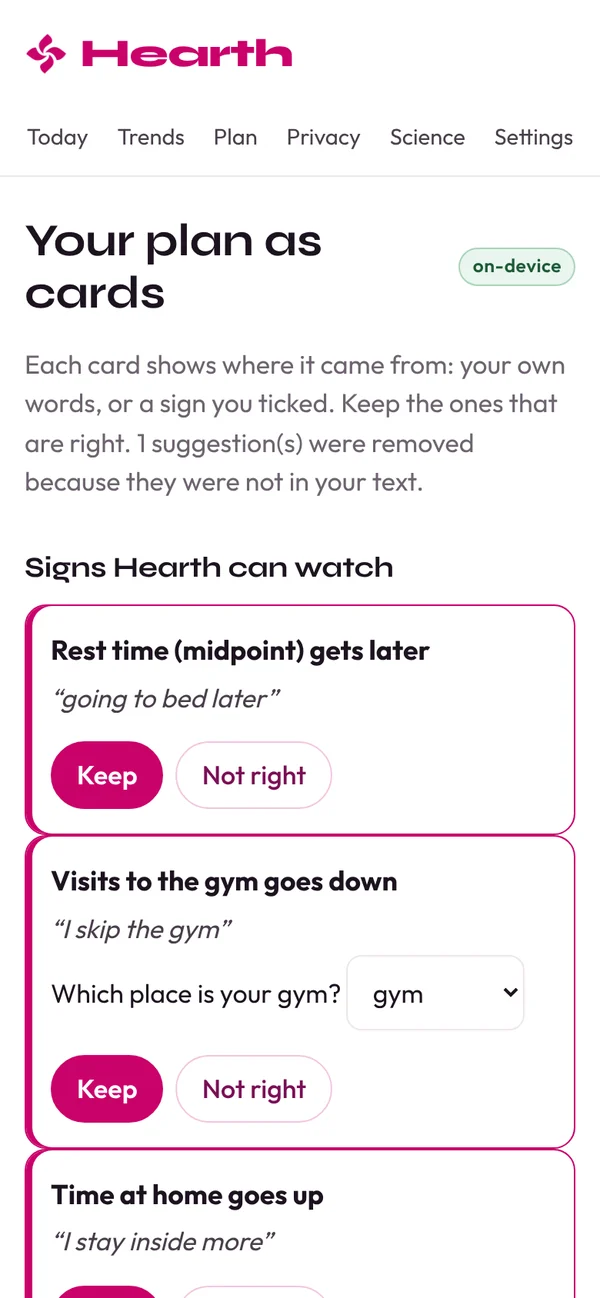
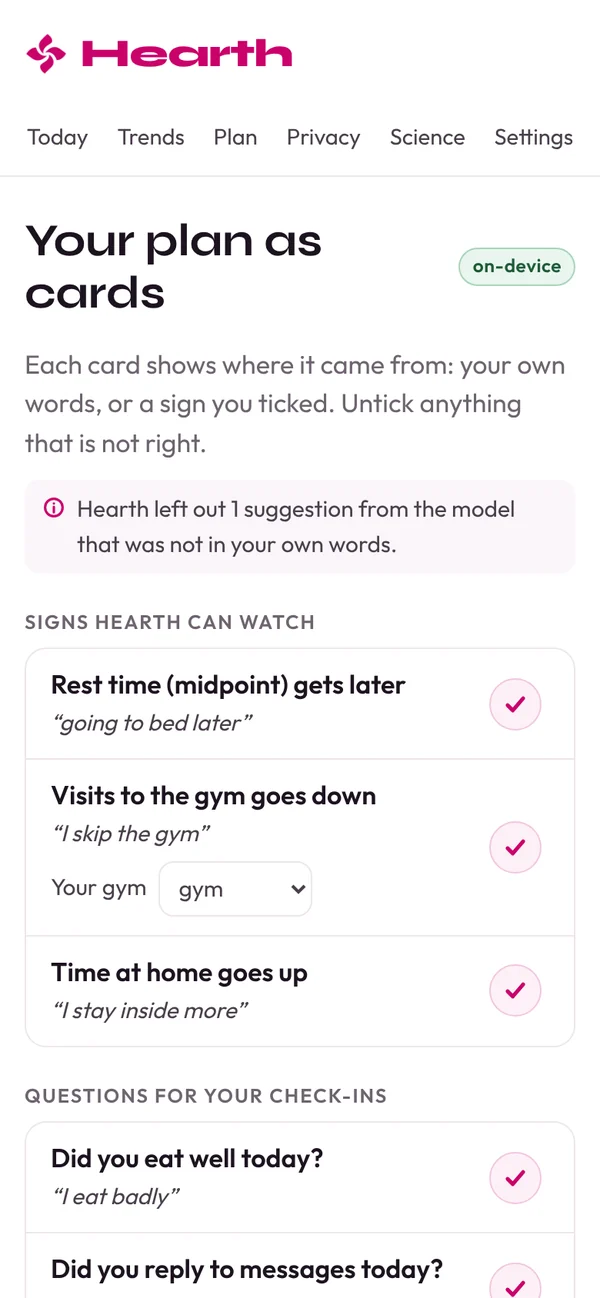
style(web): simplify plan cards

diff --git a/apps/web/src/screens/PlanSetup.tsx b/apps/web/src/screens/PlanSetup.tsx
@@ -1,10 +1,10 @@
-import { useEffect, useState } from "react";
+import { useEffect, useState, type ReactNode } from "react";
 import { cfg, currentReplay } from "../app/runtime";
 import { savePlan, openSafety } from "../app/actions";
 import { db, getSettings, getSingleton } from "../store/db";
 import { navigate } from "../app/events";
 import { router } from "../inference";
-import { Card, ModelBadge, Screen } from "../ui/kit";
+import { ModelBadge, Screen } from "../ui/kit";
 import { DIRECTION_TEXT, featureLabel } from "../app/labels";
 import { MicButton } from "../ui/Speech";
 import { detectCrisis, verifyPlan, type VerifiedPlan, type PersonaPlace, type RuleDirection } from "@hearth/engine";
@@ -165,46 +165,59 @@ export function PlanSetup({ params }: { params: Record<string, string> }) {
     const toggle = (arr: boolean[], set: (v: boolean[]) => void, i: number, v: boolean) => set(arr.map((x, k) => (k === i ? v : x)));
     return (
       <Screen title="Your plan as cards" badge={<ModelBadge ranOn={status.ranOn} />}>
-        <p className="muted">Each card shows where it came from: your own words, or a sign you ticked. Keep the ones that are right.{status.dropped > 0 ? ` ${status.dropped} suggestion(s) were removed because they were not in your text.` : ""}</p>
-        {plan.rules.length > 0 && <h2>Signs Hearth can watch</h2>}
-        {plan.rules.map((r, i) => (
-          <Card key={`r${i}`} tone={rulesOk[i] ? "accent" : "plain"}>
-            <strong>
-              {r.feature === "place_visits" ? `Visits to the ${r.place_label}` : featureLabel(r.feature)} {DIRECTION_TEXT[r.direction]}
-            </strong>
-            <Origin quote={r.quote} />
-            {r.feature === "place_visits" && (
-              <label>
-                Which place is your {r.place_label}?{" "}
-                <select value={picks[i] ?? ""} onChange={(e) => setPicks({ ...picks, [i]: e.target.value })} aria-label={`Pick the place for ${r.place_label}`}>
-                  <option value="">Choose…</option>
-                  {places.map((p) => (
-                    <option key={p.label} value={p.label}>
-                      {p.label}
-                    </option>
-                  ))}
-                </select>
-              </label>
-            )}
-            <Decide value={rulesOk[i]} onChange={(v) => toggle(rulesOk, setRulesOk, i, v)} />
-          </Card>
-        ))}
-        {plan.personal_checkin_items.length > 0 && <h2>Questions for your check-ins</h2>}
-        {plan.personal_checkin_items.map((it, i) => (
-          <Card key={`i${i}`} tone={itemsOk[i] ? "accent" : "plain"}>
-            <strong>{it.question}</strong>
-            <Origin quote={it.quote} />
-            <Decide value={itemsOk[i]} onChange={(v) => toggle(itemsOk, setItemsOk, i, v)} />
-          </Card>
-        ))}
-        {plan.actions.length > 0 && <h2>What helps you</h2>}
-        {plan.actions.map((a, i) => (
-          <Card key={`a${i}`} tone={actionsOk[i] ? "accent" : "plain"}>
-            <strong>{a.text}</strong>
-            <span className="quote">“{a.quote}”</span>
-            <Decide value={actionsOk[i]} onChange={(v) => toggle(actionsOk, setActionsOk, i, v)} />
-          </Card>
-        ))}
+        <p className="muted">Each card shows where it came from: your own words, or a sign you ticked. Untick anything that is not right.</p>
+        {status.dropped > 0 && (
+          <p className="plan-note" role="status">
+            <svg width="14" height="14" viewBox="0 0 16 16" fill="none" stroke="currentColor" strokeWidth={1.8} strokeLinecap="round" aria-hidden="true"><circle cx="8" cy="8" r="6.5" /><path d="M8 7.5v4M8 5h0" /></svg>
+            <span>Hearth left out {status.dropped === 1 ? "1 suggestion" : `${status.dropped} suggestions`} from the model that {status.dropped === 1 ? "was" : "were"} not in your own words.</span>
+          </p>
+        )}
+        {plan.rules.length > 0 && <h2 className="plan-group">Signs Hearth can watch</h2>}
+        {plan.rules.length > 0 && (
+          <ul className="plan-list">
+            {plan.rules.map((r, i) => {
+              const title = `${r.feature === "place_visits" ? `Visits to the ${r.place_label}` : featureLabel(r.feature)} ${DIRECTION_TEXT[r.direction]}`;
+              return (
+                <PlanItem key={`r${i}`} title={title} kept={rulesOk[i]} onChange={(v) => toggle(rulesOk, setRulesOk, i, v)}>
+                  <Origin quote={r.quote} />
+                  {r.feature === "place_visits" && (
+                    <label className="plan-place">
+                      Your {r.place_label}
+                      <select value={picks[i] ?? ""} onChange={(e) => setPicks({ ...picks, [i]: e.target.value })} aria-label={`Pick the place for ${r.place_label}`}>
+                        <option value="">Choose…</option>
+                        {places.map((p) => (
+                          <option key={p.label} value={p.label}>
+                            {p.label}
+                          </option>
+                        ))}
+                      </select>
+                    </label>
+                  )}
+                </PlanItem>
+              );
+            })}
+          </ul>
+        )}
+        {plan.personal_checkin_items.length > 0 && <h2 className="plan-group">Questions for your check-ins</h2>}
+        {plan.personal_checkin_items.length > 0 && (
+          <ul className="plan-list">
+            {plan.personal_checkin_items.map((it, i) => (
+              <PlanItem key={`i${i}`} title={it.question} kept={itemsOk[i]} onChange={(v) => toggle(itemsOk, setItemsOk, i, v)}>
+                <Origin quote={it.quote} />
+              </PlanItem>
+            ))}
+          </ul>
+        )}
+        {plan.actions.length > 0 && <h2 className="plan-group">What helps you</h2>}
+        {plan.actions.length > 0 && (
+          <ul className="plan-list">
+            {plan.actions.map((a, i) => (
+              <PlanItem key={`a${i}`} title={a.text} kept={actionsOk[i]} onChange={(v) => toggle(actionsOk, setActionsOk, i, v)}>
+                <span className="quote">“{a.quote}”</span>
+              </PlanItem>
+            ))}
+          </ul>
+        )}
         {plan.rules.length + plan.personal_checkin_items.length + plan.actions.length === 0 && <p>No cards came out of this text. You can add them by hand.</p>}
         <div className="row">
           <button className="secondary" onClick={() => setStatus({ kind: "idle" })}>
@@ -303,16 +316,21 @@ export function PlanSetup({ params }: { params: Record<string, string> }) {
   );
 }
 
-function Decide({ value, onChange }: { value: boolean; onChange: (v: boolean) => void }) {
+/** One line of the plan: what it is, where it came from, and a tick to keep it (on by default). */
+function PlanItem({ title, kept, onChange, children }: { title: string; kept: boolean; onChange: (v: boolean) => void; children: ReactNode }) {
   return (
-    <div className="row" role="group" aria-label="Keep this card?">
-      <button aria-pressed={value} className={value ? "primary" : "secondary"} onClick={() => onChange(true)}>
-        Keep
+    <li className={`plan-item${kept ? "" : " is-off"}`}>
+      <div className="plan-item-text">
+        <strong>{title}</strong>
+        {children}
+        {!kept && <small className="plan-off">Not kept</small>}
+      </div>
+      <button className="keep-tick" role="switch" aria-checked={kept} aria-label={`Keep: ${title}`} onClick={() => onChange(!kept)}>
+        <svg width="18" height="18" viewBox="0 0 16 16" fill="none" stroke="currentColor" strokeWidth={2.2} strokeLinecap="round" strokeLinejoin="round" aria-hidden="true">
+          <path d="M3.5 8.5 6.5 11.5 12.5 4.5" />
+        </svg>
       </button>
-      <button aria-pressed={!value} className={!value ? "primary" : "secondary"} onClick={() => onChange(false)}>
-        Not right
-      </button>
-    </div>
+    </li>
   );
 }
 

diff --git a/apps/web/src/styles.css b/apps/web/src/styles.css
@@ -134,6 +134,27 @@ th { background: var(--surface-2); font-weight: 600; position: sticky; top: 0; }
 .badge-on_device { background: #e9f5ee; border-color: #a8d5b9; color: #1e5b37; }
 .badge-cloud { background: #eaf1fb; border-color: #aecaee; color: #1d4a85; }
 
+/* ---------- plan cards (plan setup) ---------- */
+.plan-group { font-family: var(--font-body); font-size: 0.75rem; font-weight: 600; letter-spacing: 0.08em; text-transform: uppercase; color: var(--muted); margin: var(--s5) 0 var(--s2); }
+.plan-list { list-style: none; margin: 0; padding: 0; border: 1px solid var(--line); border-radius: var(--radius); background: var(--white); overflow: hidden; }
+.plan-item { display: flex; align-items: center; gap: var(--s3); padding: var(--s3) var(--s4); transition: opacity 0.15s; }
+.plan-item + .plan-item { border-top: 1px solid var(--line); }
+.plan-item-text { flex: 1; min-width: 0; display: flex; flex-direction: column; gap: 2px; }
+.plan-item-text strong { font-weight: 600; font-size: 1rem; line-height: 1.35; }
+.plan-item-text .quote, .plan-item-text .muted { font-size: 0.88rem; }
+.plan-item.is-off .plan-item-text { opacity: 0.5; }
+.plan-off { color: var(--muted); font-size: 0.78rem; }
+.plan-place { display: flex; align-items: center; gap: var(--s2); font-size: 0.88rem; color: var(--ink-2); margin-top: var(--s1); }
+.plan-place select { min-height: 36px; padding: 2px var(--s2); font-size: 0.88rem; }
+.keep-tick { flex: none; width: 44px; height: 44px; min-width: 44px; padding: 0; border: none; background: transparent; display: inline-flex; align-items: center; justify-content: center; color: transparent; }
+.keep-tick svg { box-sizing: content-box; padding: 7px; border-radius: 50%; border: 1.5px solid var(--line); background: var(--white); transition: background 0.15s, border-color 0.15s, color 0.15s; }
+.keep-tick[aria-checked="true"] { color: var(--magenta); }
+.keep-tick[aria-checked="true"] svg { background: var(--magenta-tint); border-color: var(--magenta-line); }
+.keep-tick:hover:not(:disabled) { background: transparent; }
+.keep-tick:hover:not(:disabled) svg { border-color: var(--magenta-line); }
+.plan-note { display: flex; gap: var(--s2); align-items: flex-start; font-size: 0.88rem; color: var(--ink-2); background: var(--surface-2); border-radius: var(--radius-sm); padding: var(--s2) var(--s3); margin: var(--s3) 0 0; }
+.plan-note svg { flex: none; margin-top: 3px; color: var(--magenta); }
+
 /* ---------- science ---------- */
 .sci-lead { font-size: 1.05rem; color: var(--ink-2); }
 .sci-toc { display: flex; flex-wrap: wrap; gap: var(--s2); margin: var(--s4) 0 0; }
